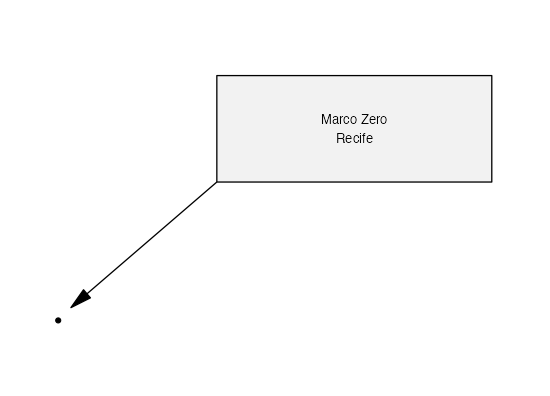
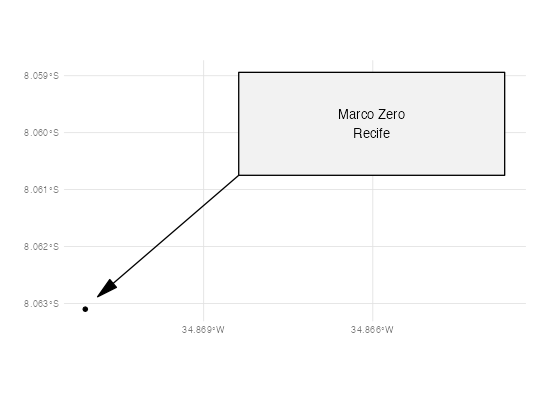
vignette(maps): quick start, the columns, three scales, geo_bearing; labels placed as pic placed them (#44)
autoplot() and the vignette's helper turn geopic_anchor into hjust/vjust and
geopic_rotation into angle, so "2 km" above sits above its line; every
figure shows the lon/lat grid; a new pitch example shows geo_bearing.

Claude-Session: https://claude.ai/code/session_01358Tec4eMAfoaTsNuGu7iq

diff --git a/NEWS.md b/NEWS.md
@@ -42,7 +42,14 @@ object for the source, pipe-first verbs, snake_case columns, data frames.
   `maplibre() |> add_rpic(pic(src))`. `rpic_mapgl()` stays as an alias (the
   same function).
 * `autoplot()` (`ggplot2`) of a georeferenced `pic()` draws it with
-  `geom_sf()`: fills and strokes as pic drew them, texts as labels.
+  `geom_sf()`: fills and strokes as pic drew them, texts as labels, justified
+  and turned as pic placed them (`geopic_anchor` → `hjust`/`vjust`,
+  `geopic_rotation` → `angle`), so `"2 km" above` sits above its line.
+* `vignette("maps")` opens with a three-line quick start, shows what
+  `rpic_sf()` returns column by column, tells pic's `scale`, `geo_scale` and
+  text sizes apart, adds a `geo_bearing` example (a pitch laid at 55°) and
+  draws every figure on the longitude/latitude grid with its labels placed
+  as pic placed them.
 * Vignettes, the mapgl article, README and examples are written with `pic()`
   and `|>`; the reference index is grouped as Compile and export · Drawing
   data · Maps · knitr.
